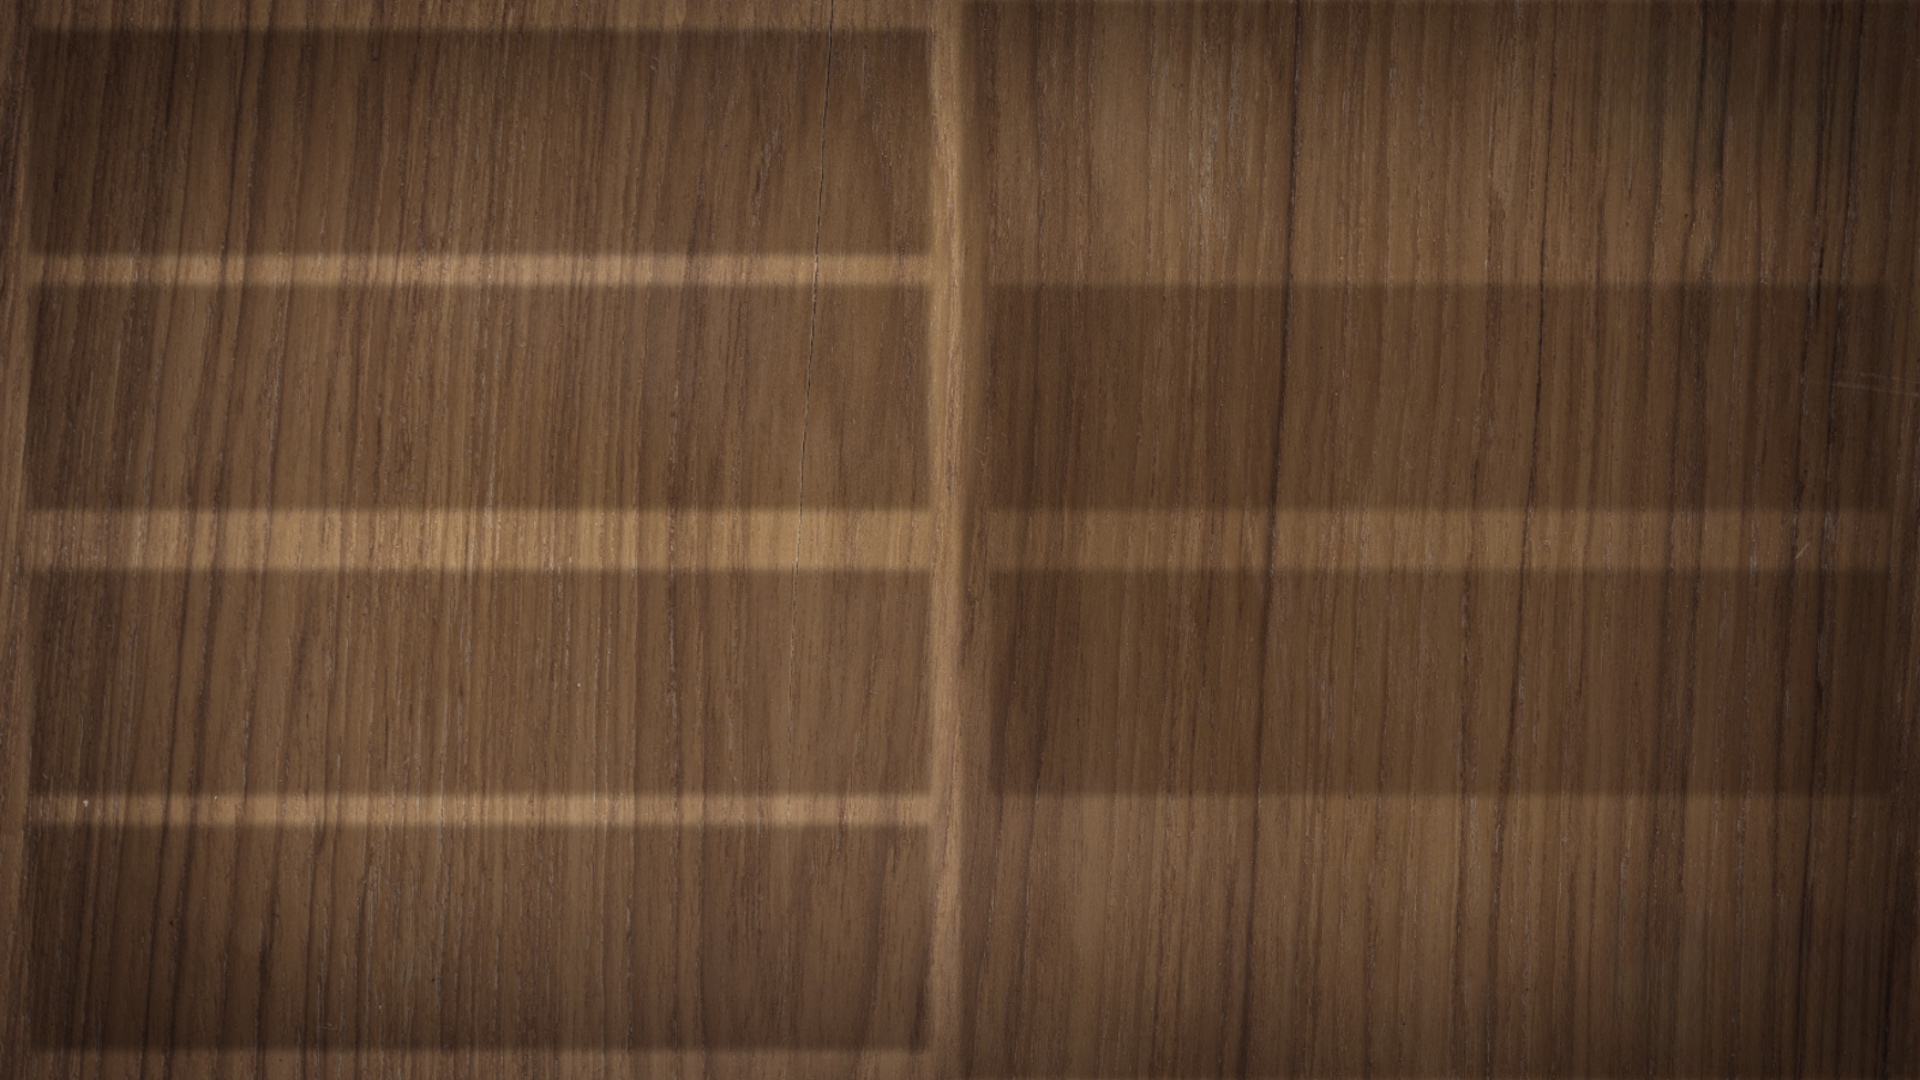
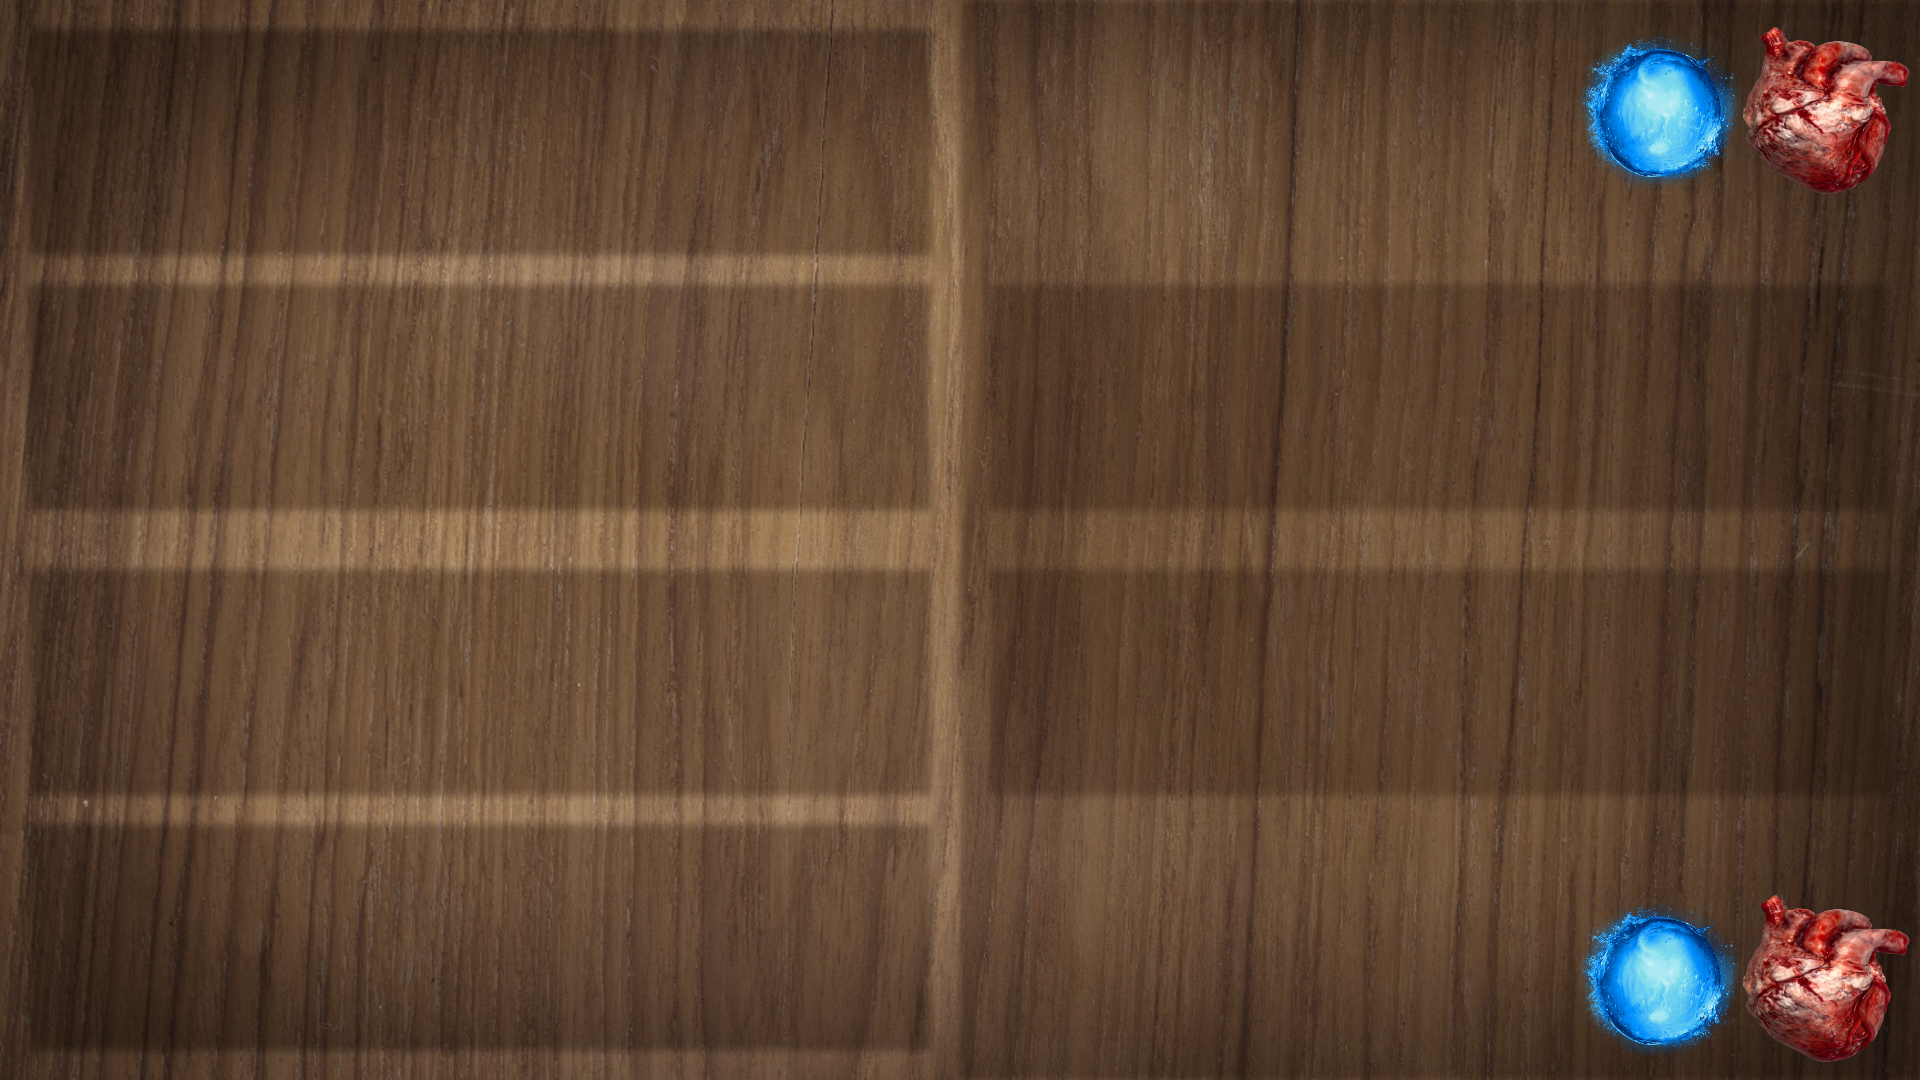
Implement code changes to enhance functionality and improve performance

Changed region(s): [[0.8125, 0.825, 1.0, 1.0], [0.8125, 0.0306, 1.0, 0.1833]]

diff --git a/templates/game2.html b/templates/game2.html
@@ -122,13 +122,13 @@
     <div id="opponentMana" class="values" style="right: 203px;top: 52px;">00</div>
 
     <div id="userInfo">
-        <div class="values user-info">{{ username }}</div>
-        <img src="{{profilepic}}" alt="Profile Picture" class="profilepic" style="right: 43px; top: 850px;">
+        <div class="values user-info" style="right: 595px; bottom: 70px; position: fixed;">{{ username }}</div>
+        <img src="{{profilepic}}" alt="Profile Picture" class="profilePic" style="bottom: 70px; position: fixed;">
     </div>
 
     <div id="opponentInfo">
-        <div class="values" style="right: 43px; top: 20px;">{{ opponentName }}</div>
-        <img src="{{opponentProfilepic}}" alt="Profile Picture" class="profilepic opponent-profile-pic">
+        <div class="values" style="right: 595px; top: 70px;">{{ opponentName }}</div>
+        <img src="{{opponentProfilepic}}" alt="Profile Picture" class="profilePic opponent-profile-pic" style="top: 70px; position: fixed;">
     </div>
 
 

diff --git a/templates/css/game.css b/templates/css/game.css
@@ -72,3 +72,12 @@
     text-shadow: black 0px 0px 4px;
     display: none;
 }
+
+.profilePic {
+    left: 1015px;
+    position: absolute;
+    height: 13%;
+    border-radius: 40%;
+    pointer-events: none;
+    z-index: 1;
+}

diff --git a/app.py b/app.py
@@ -364,7 +364,7 @@ def testGame2():
     if not session.get("Username"):  # check if the user is logged in
         return redirect(url_for("login"))
     username = session.get("Username")
-    return render_template("game2.html", username=username)
+    return render_template("game2.html", username=username, profilepic=getProfilePicPath(username), opponentProfilepic="images/profilePics/Default.png")
  
  
 @app.route("/testGame2/getCurrentGame", methods=["GET"])
